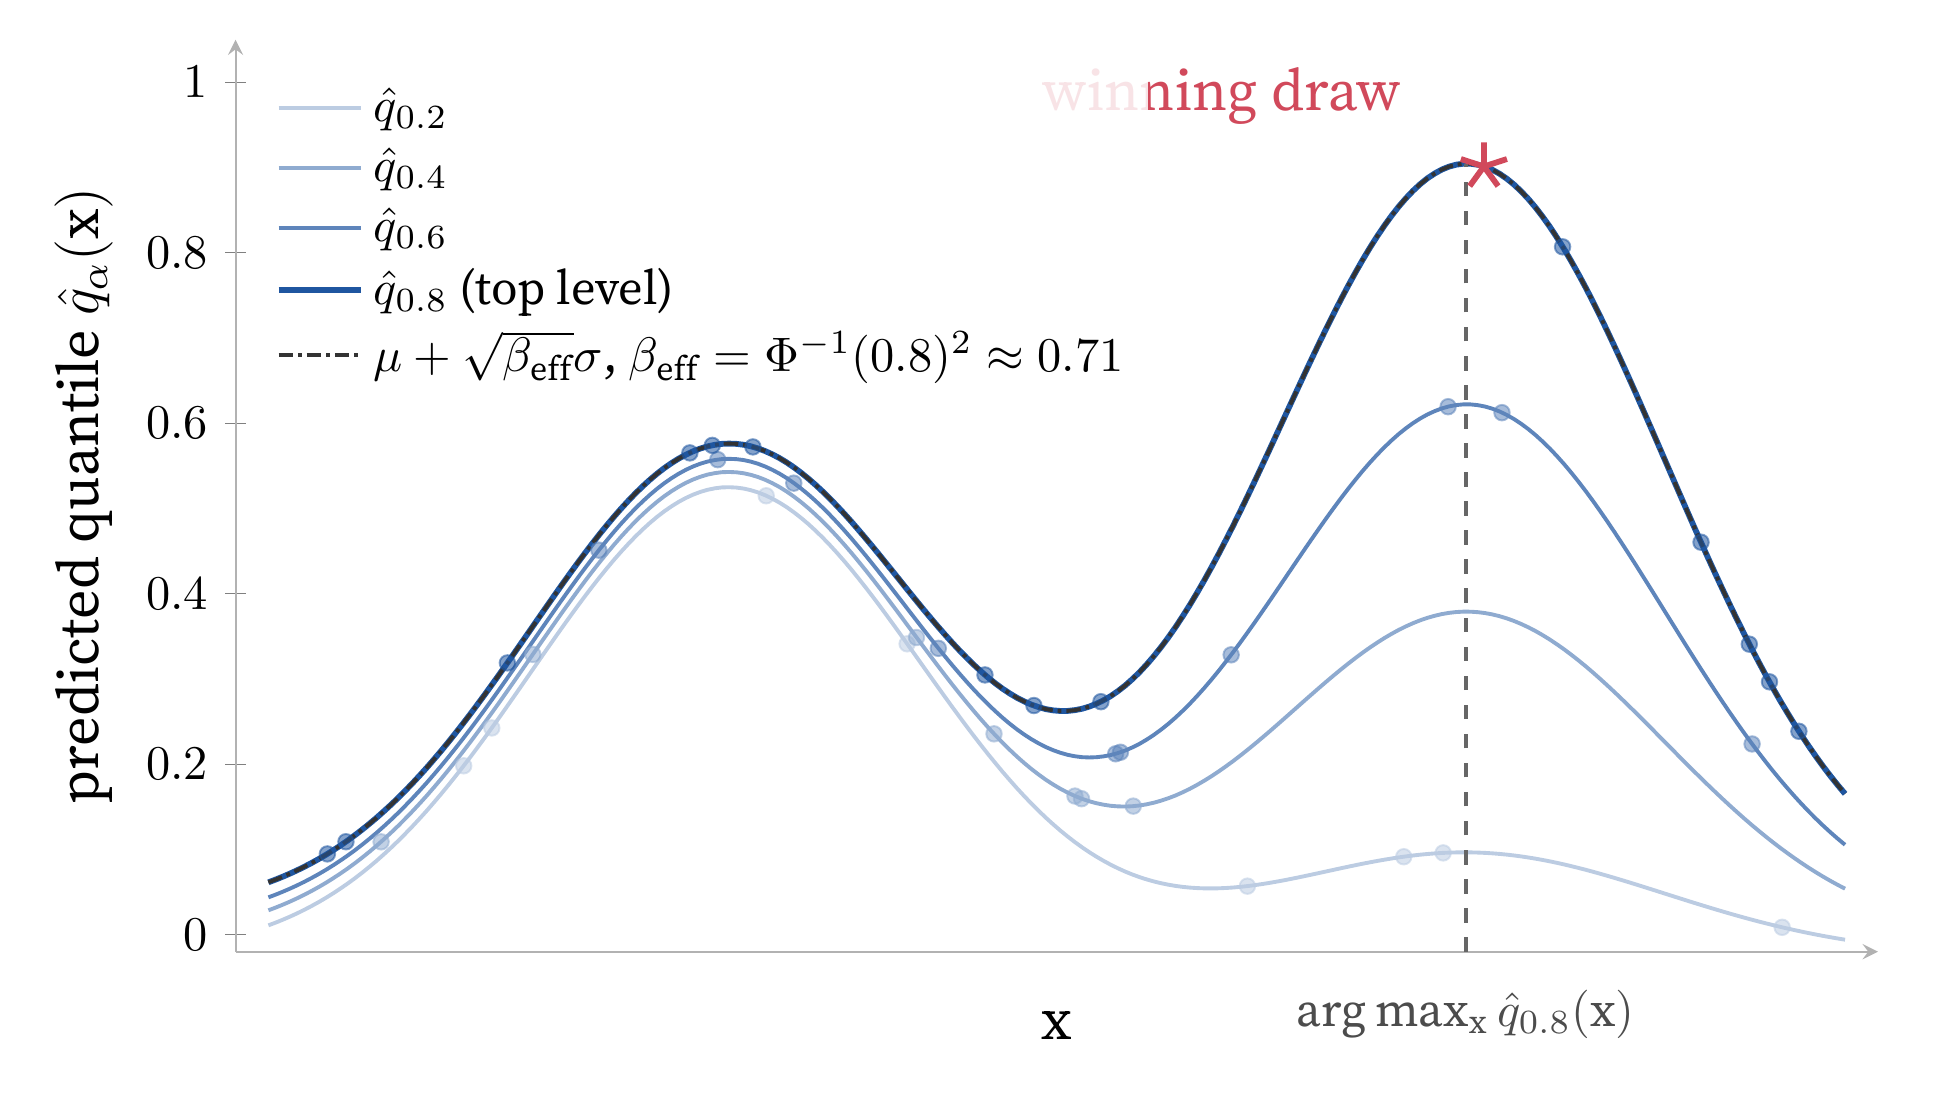
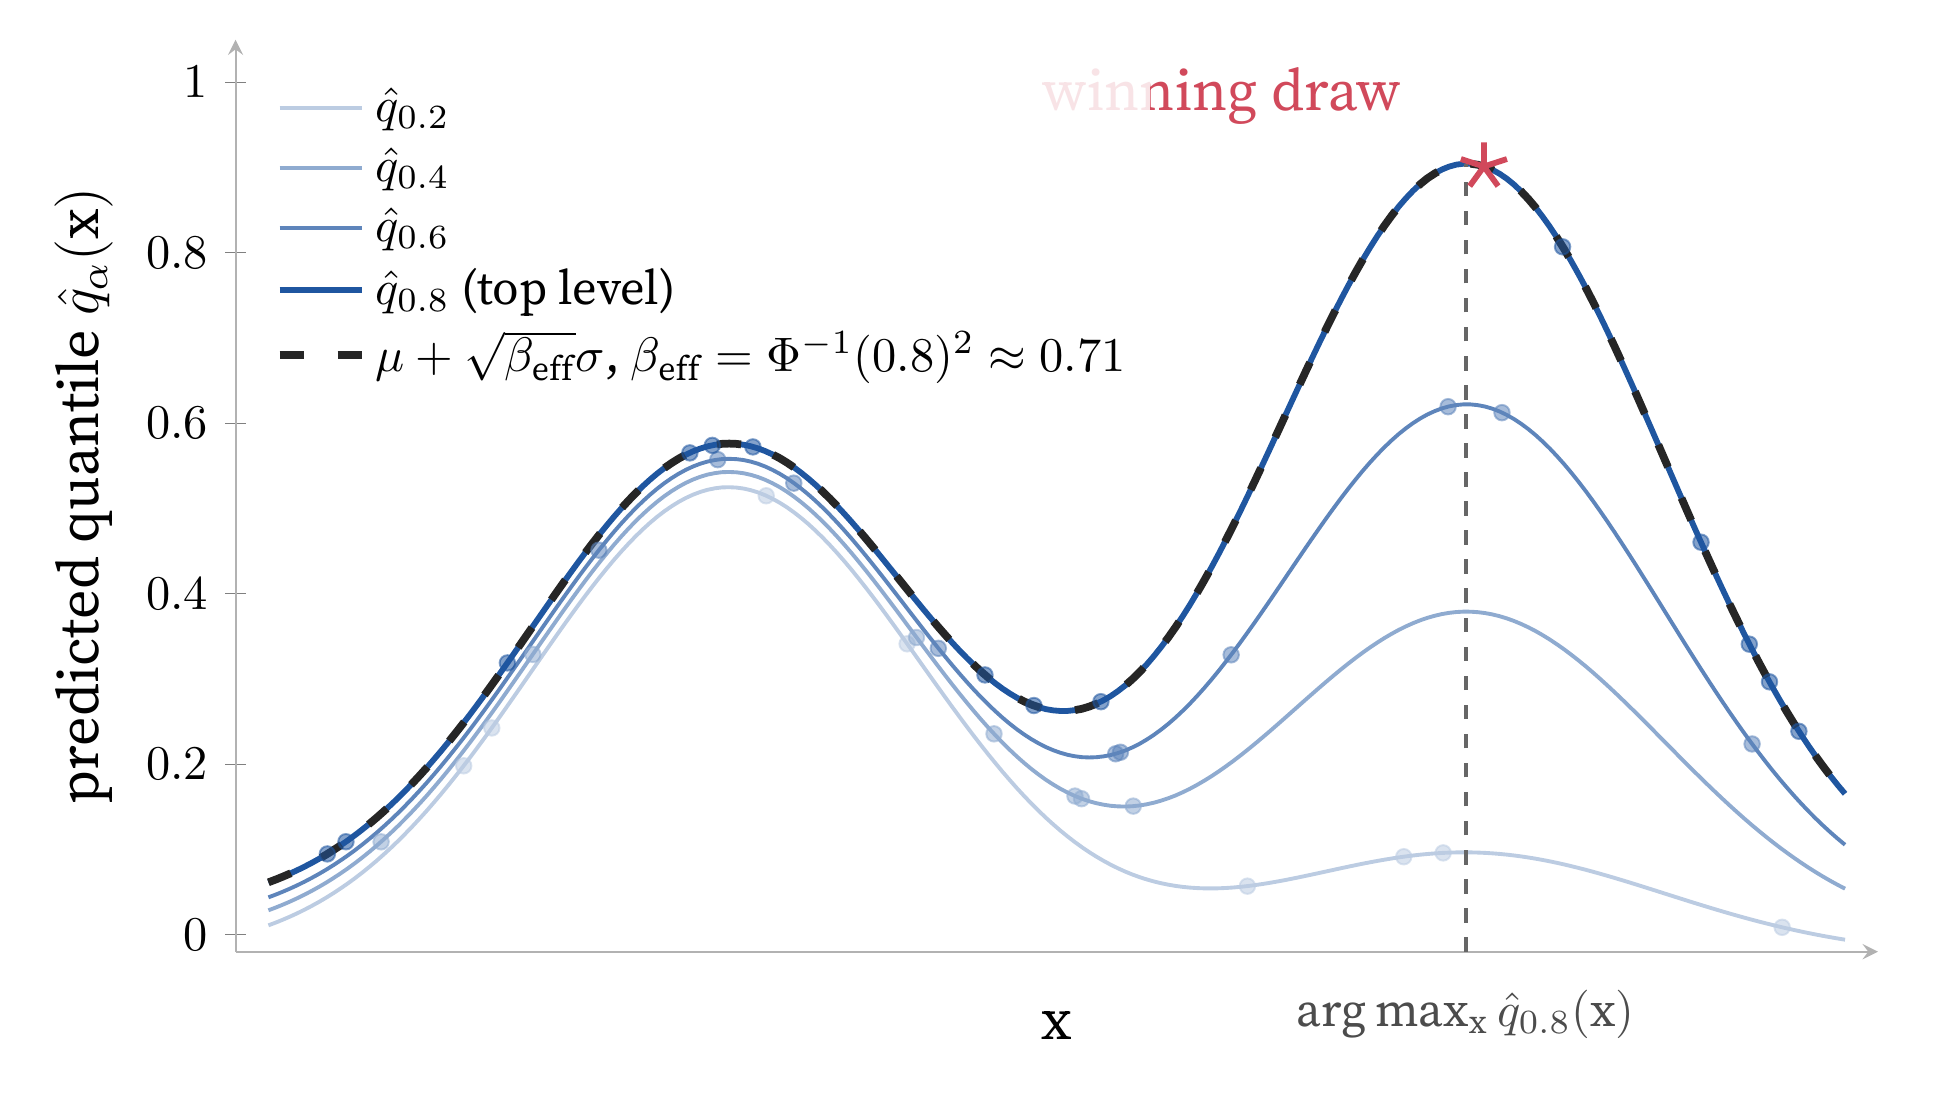
fig: widen UCB overlay dashes so coincidence with top quantile curve is visible

diff --git a/content/posts/likelihood-free-ucb/src/ts-collapse.tex b/content/posts/likelihood-free-ucb/src/ts-collapse.tex
@@ -41,7 +41,7 @@
 \addplot[domain=0.02:0.98, samples=220, very thick, c4] {mmu(x) + 0.8416*ssg(x)};
 \addlegendentry{$\hat{q}_{0.8}$ (top level)}
 % analytic UCB at the grid-equivalent beta: coincides exactly (Gaussian predictive)
-\addplot[domain=0.02:0.98, samples=220, thick, densely dashdotted, black!80] {mmu(x) + 0.8416*ssg(x)};
+\addplot[domain=0.02:0.98, samples=220, line width=1.6pt, dash pattern=on 5pt off 7pt, black!85] {mmu(x) + 0.8416*ssg(x)};
 \addlegendentry{$\mu + \sqrt{\beta_{\mathrm{eff}}}\sigma$,\ $\beta_{\mathrm{eff}} = \Phi^{-1}(0.8)^2 \approx 0.71$}
 % candidates, one dot per candidate at its drawn quantile (seed=1)
 \addplot[only marks, mark=*, mark size=1.6pt, c1, opacity=0.55] coordinates { (0.3231,0.5149) (0.1560,0.2425) (0.4089,0.3412) (0.7353,0.0959) (0.7113,0.0914) (0.9417,0.0086) (0.1389,0.1981) (0.6161,0.0569) };
